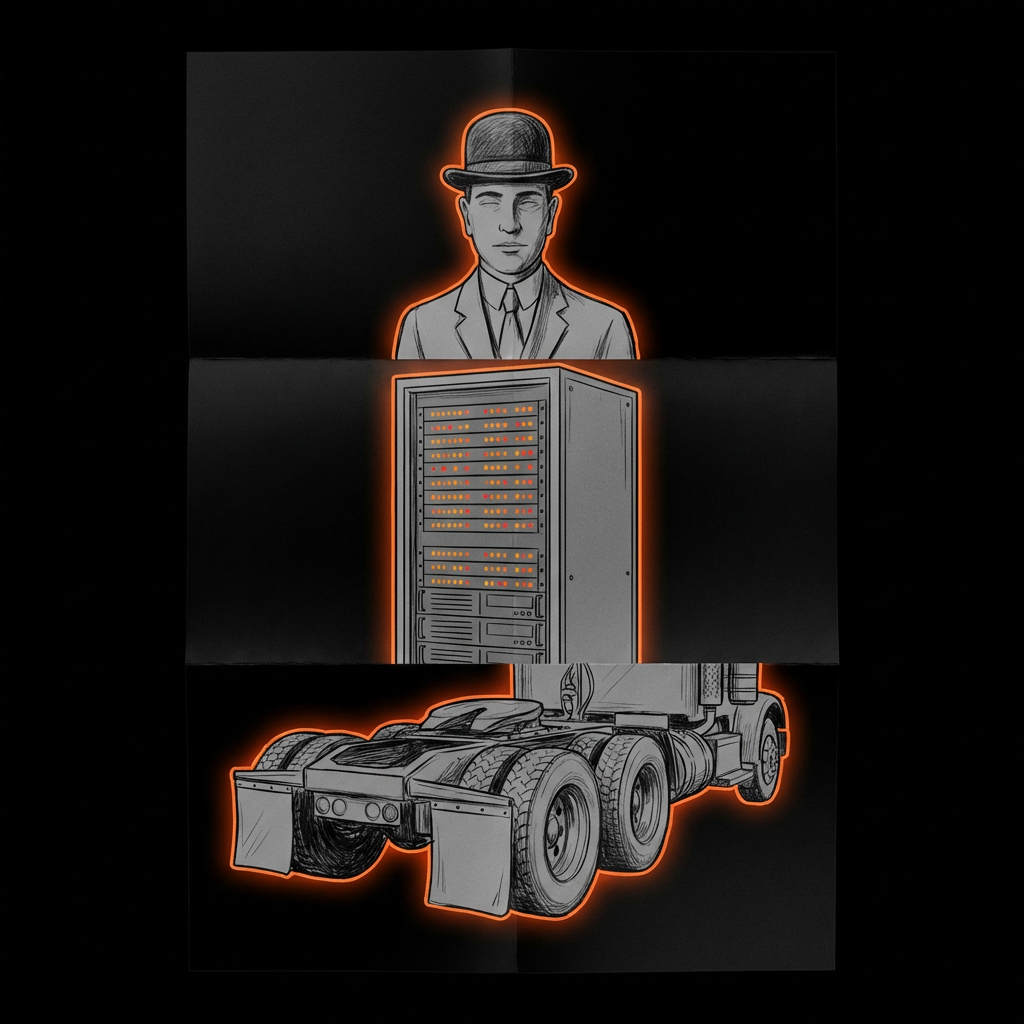
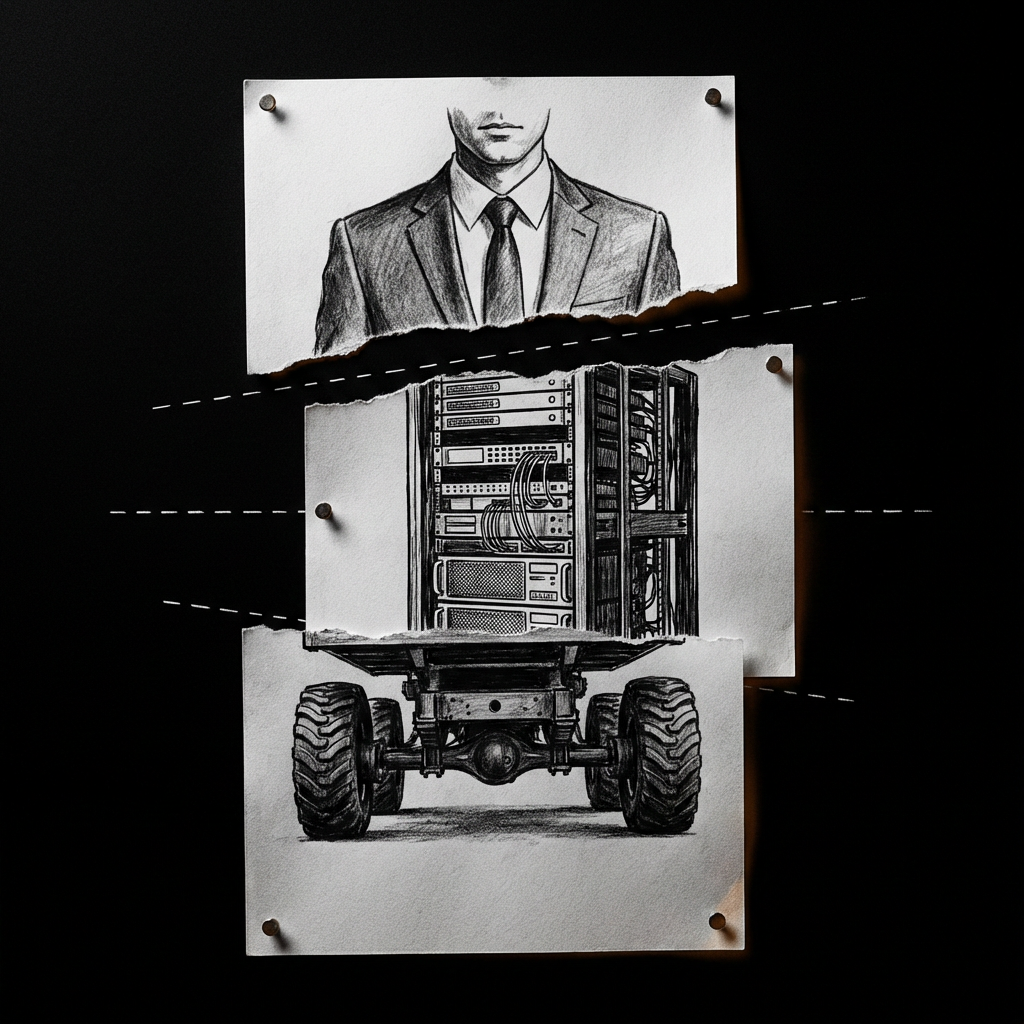
Replace images with better generations — triptych, etching, hands
- corpse-figure.png: pencil triptych pinned to black (paper fold metaphor)
- centaur.png: Victorian natural history etching, correct anatomy
- joint.png: human + mechanical hands touching (Creation of Adam reference)

diff --git a/index.html b/index.html
@@ -166,11 +166,11 @@
       opacity: 0;
       transition: opacity 1s cubic-bezier(0.16,1,0.3,1);
     }
-    .corpse-figure.assembled { opacity: 0.22; }
+    .corpse-figure.assembled { opacity: 0.35; }
     .corpse-figure img {
       width: 100%; height: auto; display: block;
-      mix-blend-mode: screen;
-      filter: saturate(0.7) brightness(0.85);
+      mix-blend-mode: luminosity;
+      filter: brightness(0.75) contrast(1.1);
     }
 
     /* === DIAGNOSIS === */
@@ -273,9 +273,9 @@
 
     /* === THE JOINT === */
     .joint-hero-img {
-      display: block; max-width: 760px; width: 100%; margin: 0 auto 3rem;
-      border-radius: 8px; opacity: 0.75;
-      filter: saturate(0.8) brightness(0.9);
+      display: block; max-width: 680px; width: 100%; margin: 0 auto 3.5rem;
+      border-radius: 6px; opacity: 0.9;
+      filter: brightness(0.95) contrast(1.05);
     }
     .joint-headline {
       font-family: var(--font-display);
@@ -388,8 +388,8 @@
     .centaur-bg-img {
       position: absolute; inset: 0; width: 100%; height: 100%;
       object-fit: cover; object-position: center top;
-      opacity: 0.18; mix-blend-mode: screen;
-      filter: saturate(0.5) brightness(0.9);
+      opacity: 0.28; mix-blend-mode: luminosity;
+      filter: brightness(0.65) contrast(1.05) saturate(0.4);
       pointer-events: none;
     }
     .centaur-label {
